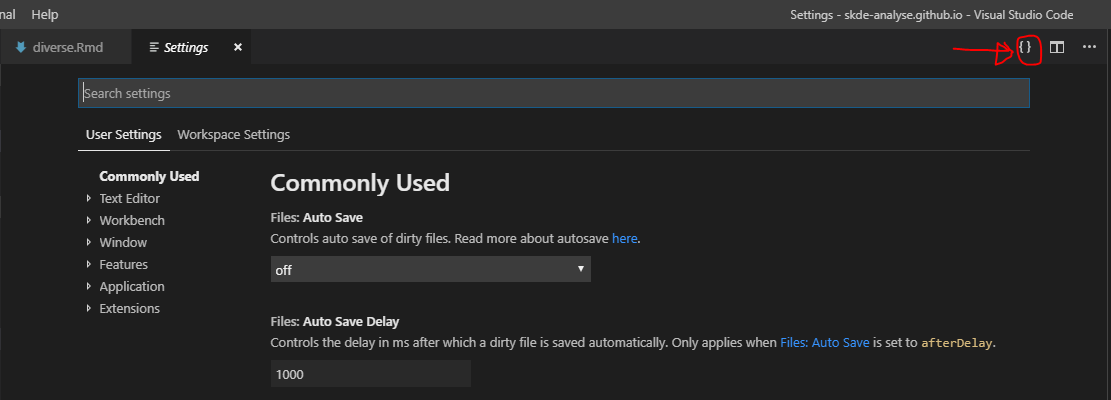
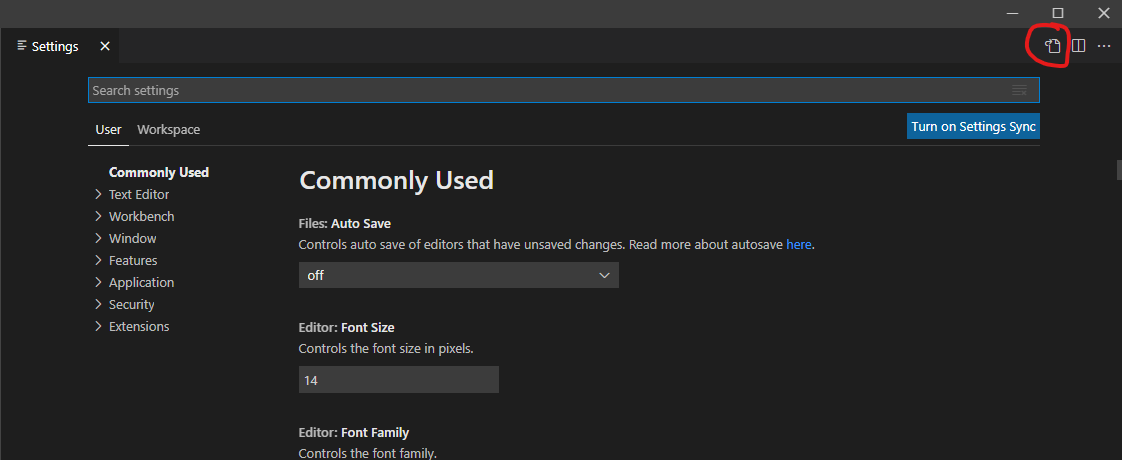
Update vscode doc

diff --git a/docs/diverse.md b/docs/diverse.md
@@ -94,7 +94,7 @@ Følgende utvidelser er hvitelistet:
 
 ### Settings-fil
 
-Man åpner `settings.json` ved å gå inn på *File/Preferences/Settings/* og trykke på `{}`-symbol oppe til høyre hjørne (se figur).
+Man åpner `settings.json` ved å gå inn på *File/Preferences/Settings/* og trykke på symbolet oppe til høyre hjørne (se figur).
 
 ![Alt Text](figurer/vscode_settings.png)
 
@@ -102,52 +102,30 @@ Husk komma etter hver linje på samme nivå, bortsett fra siste linje på gitt n
 
 ```json
 {
-    "[SAS]": {
-        "files.encoding": "windows1252"
-    },
     "files.autoGuessEncoding": true,
-    "telemetry.enableTelemetry": false
+    "git.enabled": true
 }
 ```
 
-### File encoding
-
-For å slå på automatisk detektering av tegnsett i filene, gå inn på *File/Preferences/Settings/* og søk etter `encoding`. Huk av på `Files: Auto Guess Encoding`.
-
-*SAS*-filer må ha tegnsett `windows1252`. For å tvinge *vscode* til å åpne *SAS*-filer med dette tegnsettet kan følgende snutt legges inn i `settings.json`:
-
-```json
-"[SAS]": {
-    "files.encoding": "windows1252"
-}
-```
-
-Språkidentifikatoren `SAS` er definert av tillegget `SAS-Syntax` av *77qingliu*. Det betyr at dette tillegget må være installert før denne instillingen vil fungere. Hvis et annet *SAS*-tillegg er installert, vil denne språkidentifikasjonen sannsynligvis være `sas` (med små bokstaver).
+Her har vi blant annet slått på automatisk detektering av tegnsett i filene som åpnes.
 
 ### Git for source control
 
-If Git was installed before VScode, then VScode should automatically pick up Git as a source control.  
-If VScode was installed before Git, then one can modify the settings to point to Git.
-
-Go to `settings.json` as above for 'File Encoding', add:
+På Windows10-maskiner er ikke *git* installert slik at *vscode* kan se *git*. Da kan man legge inn noe ala dette i `settings.json`:
 
 ```json
-    "git.enabled": true,
-    "git.path":"C:\users\<user name>\AppData\Local\Programs\Git\bin\git.exe"
-```
-
-På noen Windows10-maskiner er ikke *git* installert slik at *vscode* kan se *git*. Da kan man legge inn noe ala dette i `settings.json`:
-
-```json
-    "git.enabled": true,
-    "git.path": "c:\\ProgramData\\App-V\\0F29C83E-A275-4BEE-9296-92C3138DC9BC\\32D66D7D-55BA-4223-802C-F435F81AD5AD\\Root\\VFS\\ProgramFilesX64\\Git\\mingw64\\bin\\git.exe",
-    "terminal.integrated.shell.windows": "c:\\ProgramData\\App-V\\0F29C83E-A275-4BEE-9296-92C3138DC9BC\\32D66D7D-55BA-4223-802C-F435F81AD5AD\\Root\\VFS\\ProgramFilesX64\\Git\\usr\\bin\\bash.exe",
+    "git.path": "c:\\ProgramData\\App-V\\0F29C83E-A275-4BEE-9296-92C3138DC9BC\\32D66D7D-55BA-4223-802C-F435F81AD5AE\\Root\\VFS\\ProgramFilesX64\\Git\\mingw64\\bin\\git.exe",
     "terminal.integrated.env.windows": {
-        "PATH": "/c/ProgramData/App-V/0F29C83E-A275-4BEE-9296-92C3138DC9BC/32D66D7D-55BA-4223-802C-F435F81AD5AD/Root/VFS/ProgramFilesX64/Git/mingw64/bin/"
+        "PATH": "/c/ProgramData/App-V/0F29C83E-A275-4BEE-9296-92C3138DC9BC/32D66D7D-55BA-4223-802C-F435F81AD5AE/Root/VFS/ProgramFilesX64/Git/mingw64/bin/"
       },
-    "terminal.integrated.shellArgs.windows": ["-l"],
+      "terminal.integrated.profiles.windows": {
+        "Custom Init": {
+          "path": "c:\\ProgramData\\App-V\\0F29C83E-A275-4BEE-9296-92C3138DC9BC\\32D66D7D-55BA-4223-802C-F435F81AD5AE\\Root\\VFS\\ProgramFilesX64\\Git\\usr\\bin\\bash.exe",
+        }
+      },
+      "terminal.integrated.windowsEnableConpty": false
 ```
-Adressen `0F29C83E-A275-4BEE-9296-92C3138DC9BC\\32D66D7D-55BA-4223-802C-F435F81AD5AD` kan sees hvis man åpner `git bash` og ser på vinduet som åpnes smatidig. Der vil denne adressen stå (se figur).
+Adressen `0F29C83E-A275-4BEE-9296-92C3138DC9BC\\32D66D7D-55BA-4223-802C-F435F81AD5AE` varierer og må settes individuelt for hver bruker. Denne kan sees hvis man åpner `git bash` og ser på vinduet som åpnes samtidig. Der vil denne adressen stå (se figur).
 
 ![Alt Text](figurer/vscode_gitpath.png)
 
